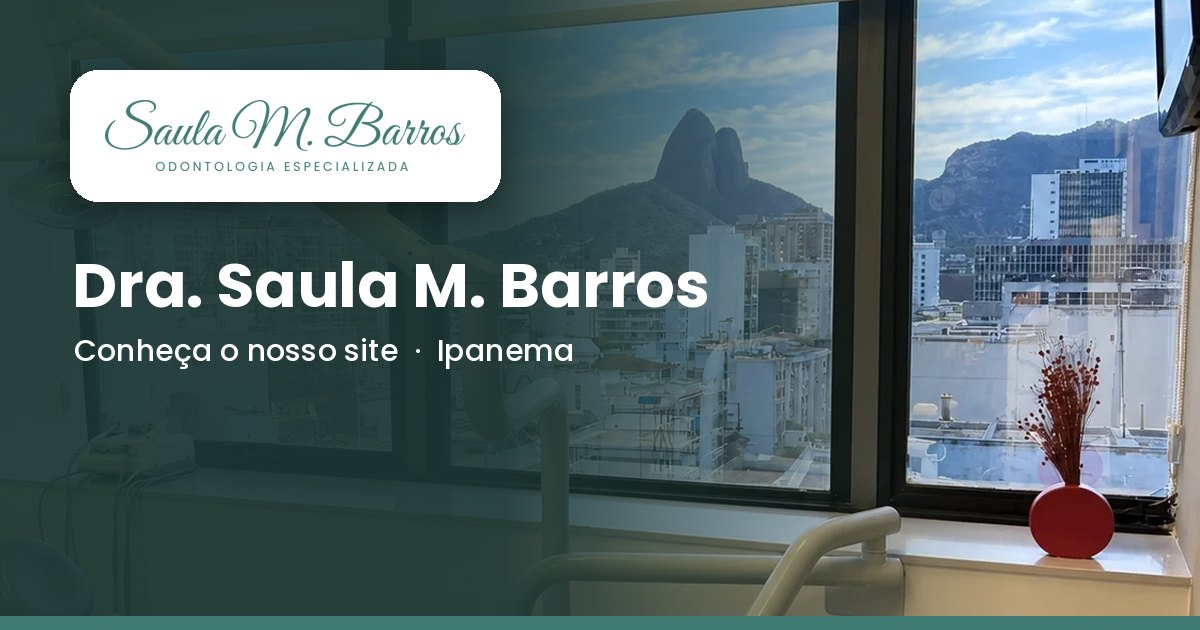
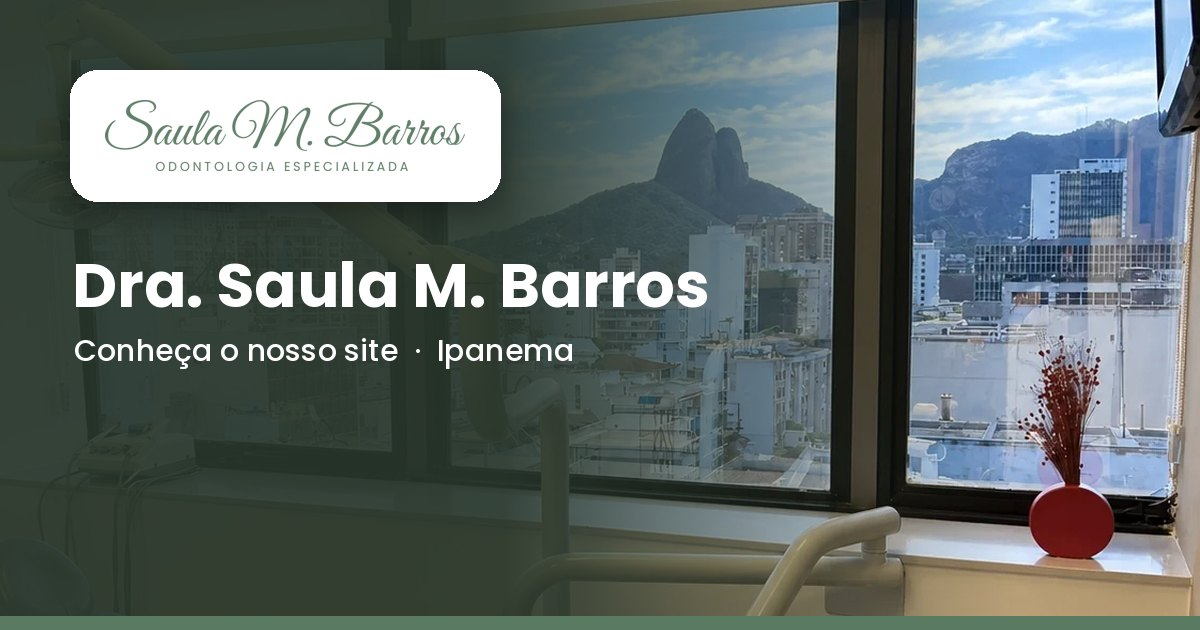
Prévia Dra. Saula v2: paleta sálvia e creme da identidade dela
Claude-Session: https://claude.ai/code/session_01Pmf734AabEcdqod3rHmquN

diff --git a/previas/dra-saula-barros-2/index.html b/previas/dra-saula-barros-2/index.html
@@ -24,8 +24,8 @@
 <link rel="stylesheet" href="https://fonts.googleapis.com/css2?family=Plus+Jakarta+Sans:wght@400;500;600;700;800&family=DM+Serif+Display&family=Caveat:wght@500;600&family=Allura&display=swap">
 <style>
 :root{
-  --azul:#0a5cb8; --azul-escuro:#084a96; --marinho:#0d2440; --texto:#4a5a6e;
-  --ceu:#eaf2fb; --ceu-2:#f5f9fe; --fio:#e1e9f3; --branco:#fff;
+  --azul:#5a7a61; --azul-escuro:#425d49; --marinho:#26352c; --texto:#5f6a62; --salvia:#8e9d8b; --mono:#739179;
+  --ceu:#e6ece3; --ceu-2:#f8efe8; --fio:#eae1d8; --branco:#fff;
   --sans:"Plus Jakarta Sans",system-ui,-apple-system,"Segoe UI",sans-serif;
   --serif:"DM Serif Display",Georgia,serif;
   --mao:"Caveat",cursive;
@@ -40,15 +40,15 @@ h1,h2,h3,p{margin:0}
 :focus-visible{outline:2px solid var(--azul);outline-offset:3px}
 .wrap{max-width:1240px;margin:0 auto;padding-inline:24px}
 .ic{width:22px;height:22px;stroke:currentColor;fill:none;stroke-width:1.7;stroke-linecap:round;stroke-linejoin:round;flex:none}
-.olho{font-size:.72rem;font-weight:700;letter-spacing:.2em;text-transform:uppercase;color:var(--azul);line-height:1.7}
+.olho{font-size:.72rem;font-weight:700;letter-spacing:.2em;text-transform:uppercase;color:var(--mono);line-height:1.7}
 .btn{display:inline-flex;align-items:center;gap:10px;justify-content:center;height:50px;padding:0 26px;border-radius:999px;font:600 .95rem/1 var(--sans);text-decoration:none;border:0;cursor:pointer;transition:background .2s,box-shadow .2s}
-.btn-azul{background:var(--azul);color:#fff;box-shadow:0 8px 20px -10px rgba(10,92,184,.8)}
+.btn-azul{background:var(--azul);color:#fff;box-shadow:0 8px 20px -10px rgba(66,93,73,.7)}
 .btn-azul:hover{background:var(--azul-escuro)}
-.btn-linha{background:#fff;color:var(--marinho);box-shadow:inset 0 0 0 1.5px #c9d6e6}
+.btn-linha{background:#fff;color:var(--marinho);box-shadow:inset 0 0 0 1.5px #d8cdc1}
 .btn-linha:hover{box-shadow:inset 0 0 0 1.5px var(--azul)}
 .btn .seta{width:16px;height:16px}
 .nota{font-family:var(--mao);color:var(--azul-escuro);line-height:1.02;font-weight:500}
-.nota svg{display:block;width:70px;height:10px;margin-top:6px;stroke:var(--azul);fill:none;stroke-width:2;stroke-linecap:round}
+.nota svg{display:block;width:70px;height:10px;margin-top:6px;stroke:var(--salvia);fill:none;stroke-width:2;stroke-linecap:round}
 
 /* barra do topo */
 .aviso{background:var(--marinho);color:#fff;font-size:.82rem}
@@ -62,20 +62,20 @@ h1,h2,h3,p{margin:0}
 .topo{position:sticky;top:0;z-index:30;background:rgba(255,255,255,.96);backdrop-filter:blur(10px);box-shadow:0 1px 0 var(--fio)}
 .topo .wrap{height:76px;display:flex;align-items:center;gap:28px}
 .topo .marca img{height:42px;width:auto}
-.menu{display:flex;gap:28px;margin-left:auto;font-size:.92rem;font-weight:500}
+.menu{display:flex;gap:22px;margin-left:auto;font-size:.9rem;font-weight:500;white-space:nowrap}
 .menu a{text-decoration:none;color:var(--marinho);padding:6px 0;position:relative}
 .menu a.ativo{color:var(--azul)}
 .menu a.ativo::after{content:"";position:absolute;left:0;right:0;bottom:-2px;height:2px;background:var(--azul);border-radius:2px}
 .menu a:hover{color:var(--azul)}
-.tel{display:flex;align-items:center;gap:8px;font-weight:600;font-size:.92rem;text-decoration:none;margin-left:12px}
+.tel{display:flex;align-items:center;gap:8px;font-weight:600;font-size:.9rem;text-decoration:none;margin-left:4px;white-space:nowrap}
 .tel .ic{width:18px;height:18px;color:var(--azul)}
-.topo .btn{height:44px;padding:0 20px;font-size:.88rem}
-@media(max-width:1120px){.tel{display:none}}
-@media(max-width:940px){.menu{display:none}.topo .btn{margin-left:auto}}
+.topo .btn{height:44px;padding:0 20px;font-size:.88rem;white-space:nowrap}
+@media(max-width:1300px){.tel{display:none}}
+@media(max-width:1060px){.menu{display:none}.topo .btn{margin-left:auto}}
 @media(max-width:420px){.topo .marca img{height:34px}.topo .btn{padding:0 14px}}
 
 /* hero */
-.hero{position:relative;background:linear-gradient(100deg,#f4f8fd 0%,#e8f1fb 45%,#dfe9f5 100%);overflow:hidden}
+.hero{position:relative;background:linear-gradient(100deg,#fcf8f4 0%,#f8efe8 50%,#ece9df 100%);overflow:hidden}
 .hero .wrap{display:grid;grid-template-columns:1fr 1fr;min-height:600px;align-items:center;position:relative}
 .hero .texto{padding:64px 0 56px;position:relative;z-index:2}
 .hero h1{font-size:clamp(2.4rem,4.4vw,3.7rem);font-weight:800;line-height:1.08;letter-spacing:-.02em;margin-top:14px}
@@ -86,11 +86,11 @@ h1,h2,h3,p{margin:0}
 .play .ic{width:14px;height:14px}
 .hero .selos{display:grid;grid-template-columns:repeat(4,1fr);margin-top:40px;max-width:560px}
 .hero .selos div{display:flex;flex-direction:column;align-items:center;text-align:center;gap:8px;font-size:.76rem;font-weight:600;line-height:1.3;padding:0 10px}
-.hero .selos div+div{border-left:1px solid #cfdcec}
+.hero .selos div+div{border-left:1px solid #ddd3c8}
 .hero .selos .ic{width:30px;height:30px;color:var(--azul);stroke-width:1.5}
 .hero .foto{position:absolute;right:0;top:0;bottom:0;width:56%;z-index:1}
 .hero .foto img{width:100%;height:100%;object-fit:cover;object-position:50% 22%;-webkit-mask-image:linear-gradient(90deg,transparent 0,#000 26%);mask-image:linear-gradient(90deg,transparent 0,#000 26%)}
-.hero .nota{position:absolute;right:28px;top:30px;z-index:3;font-size:1.6rem;text-align:left;transform:rotate(-4deg);color:var(--marinho);background:rgba(255,255,255,.78);backdrop-filter:blur(6px);padding:12px 18px 10px;border-radius:14px;box-shadow:0 8px 24px -14px rgba(13,36,64,.5)}
+.hero .nota{position:absolute;right:28px;top:30px;z-index:3;font-size:1.6rem;text-align:left;transform:rotate(-4deg);color:var(--marinho);background:rgba(255,255,255,.78);backdrop-filter:blur(6px);padding:12px 18px 10px;border-radius:14px;box-shadow:0 8px 24px -14px rgba(38,53,44,.5)}
 @media(max-width:900px){
   .hero{display:flex;flex-direction:column}
   .hero .wrap{grid-template-columns:1fr;min-height:0;width:100%}
@@ -109,10 +109,10 @@ h1,h2,h3,p{margin:0}
 .ver{display:inline-flex;align-items:center;gap:8px;font-weight:700;font-size:.9rem;text-decoration:none}
 .ver .ic{width:16px;height:16px}
 .cards{display:grid;grid-template-columns:repeat(6,1fr);gap:16px;margin-top:30px}
-.card{background:#fff;border-radius:10px;box-shadow:0 6px 24px -12px rgba(13,36,64,.25),0 0 0 1px var(--fio);overflow:hidden;display:flex;flex-direction:column}
+.card{background:#fff;border-radius:10px;box-shadow:0 6px 24px -12px rgba(38,53,44,.25),0 0 0 1px var(--fio);overflow:hidden;display:flex;flex-direction:column}
 .card img{width:100%;aspect-ratio:4/3;object-fit:cover}
 .card .corpo{position:relative;padding:34px 16px 18px;display:flex;flex-direction:column;flex:1}
-.card .bola{position:absolute;top:-24px;left:16px;width:48px;height:48px;border-radius:50%;background:#fff;display:grid;place-items:center;box-shadow:0 4px 14px -6px rgba(13,36,64,.35);color:var(--azul)}
+.card .bola{position:absolute;top:-24px;left:16px;width:48px;height:48px;border-radius:50%;background:#fff;display:grid;place-items:center;box-shadow:0 4px 14px -6px rgba(38,53,44,.35);color:var(--azul)}
 .card h3{font-size:.98rem;font-weight:700;line-height:1.3}
 .card p{font-size:.84rem;color:var(--texto);margin-top:6px;flex:1}
 .card a{margin-top:14px;font-size:.82rem;font-weight:700;color:var(--azul);text-decoration:none;display:inline-flex;align-items:center;gap:6px}
@@ -132,7 +132,7 @@ h1,h2,h3,p{margin:0}
 .sobre .btn{margin-top:26px}
 .difs{display:grid;gap:26px}
 .difs div{display:grid;grid-template-columns:48px 1fr;gap:14px;align-items:start}
-.difs .bola{width:48px;height:48px;border-radius:50%;background:#dfeaf8;color:var(--azul);display:grid;place-items:center}
+.difs .bola{width:48px;height:48px;border-radius:50%;background:#e6ece3;color:var(--azul);display:grid;place-items:center}
 .difs b{display:block;font-size:.95rem}
 .difs span{font-size:.85rem;color:var(--texto)}
 @media(max-width:1100px){.sobre .conteudo{grid-template-columns:1fr}}
@@ -143,16 +143,16 @@ h1,h2,h3,p{margin:0}
 .medo .grade{display:grid;grid-template-columns:.85fr 1.15fr;gap:48px;align-items:start}
 .medo .lado{position:sticky;top:110px}
 .medo .lado .sub{color:var(--texto);margin-top:14px;max-width:46ch}
-.medo .lado img{width:100%;aspect-ratio:5/4;object-fit:cover;object-position:50% 30%;border-radius:12px;margin-top:26px;box-shadow:0 14px 34px -18px rgba(13,36,64,.5)}
+.medo .lado img{width:100%;aspect-ratio:5/4;object-fit:cover;object-position:50% 30%;border-radius:12px;margin-top:26px;box-shadow:0 14px 34px -18px rgba(38,53,44,.5)}
 .passos{display:grid;grid-template-columns:1fr 1fr;gap:16px;counter-reset:p}
-.passo{background:#fff;border-radius:12px;padding:22px 24px 24px;box-shadow:0 6px 24px -12px rgba(13,36,64,.25),0 0 0 1px var(--fio);counter-increment:p;position:relative}
+.passo{background:#fbf7f3;border-radius:12px;padding:22px 24px 24px;box-shadow:0 6px 24px -12px rgba(38,53,44,.25),0 0 0 1px var(--fio);counter-increment:p;position:relative}
 .passo::after{content:counter(p);position:absolute;top:18px;right:20px;width:28px;height:28px;border-radius:50%;background:var(--ceu);color:var(--azul);font-size:.8rem;font-weight:700;display:grid;place-items:center}
-.passo h3{font:400 2.5rem/1 "Allura",var(--mao);color:var(--azul-escuro);padding-bottom:8px;border-bottom:2px solid #c9dbf0;display:inline-block;padding-right:24px}
+.passo h3{font:400 2.5rem/1 "Allura",var(--mao);color:var(--mono);padding-bottom:8px;border-bottom:2px solid #c7d3c4;display:inline-block;padding-right:24px}
 .passo p{font-size:.9rem;color:var(--texto);margin-top:12px}
 .consulta{grid-column:1/-1;background:var(--marinho);color:#fff;border-radius:12px;padding:26px 28px;display:grid;grid-template-columns:auto 1fr auto;gap:24px;align-items:center}
 .consulta .preco{font-size:2rem;font-weight:800;letter-spacing:-.02em;line-height:1}
-.consulta .preco small{display:block;font-size:.78rem;font-weight:500;color:#a9bdd6;letter-spacing:0;margin-bottom:6px}
-.consulta p{font-size:.9rem;color:#d3deeb}
+.consulta .preco small{display:block;font-size:.78rem;font-weight:500;color:#b7c7b9;letter-spacing:0;margin-bottom:6px}
+.consulta p{font-size:.9rem;color:#dbe4d9}
 .consulta b{color:#fff}
 .consulta .btn{background:#fff;color:var(--marinho)}
 @media(max-width:1000px){.medo .grade{grid-template-columns:1fr}.medo .lado{position:static}.consulta{grid-template-columns:1fr}}
@@ -162,7 +162,7 @@ h1,h2,h3,p{margin:0}
 .depo .wrap{display:grid;grid-template-columns:280px 1fr;gap:36px;align-items:center}
 .depo h2{font-size:clamp(2rem,3.2vw,2.6rem);font-weight:800;line-height:1.08;letter-spacing:-.02em;margin-top:8px}
 .depo .lista{display:grid;grid-template-columns:repeat(3,1fr);gap:18px}
-.depo article{background:#fff;border-radius:10px;padding:22px;box-shadow:0 6px 24px -12px rgba(13,36,64,.25),0 0 0 1px var(--fio);display:flex;flex-direction:column}
+.depo article{background:#fff;border-radius:10px;padding:22px;box-shadow:0 6px 24px -12px rgba(38,53,44,.25),0 0 0 1px var(--fio);display:flex;flex-direction:column}
 .depo article p{font-size:.9rem;flex:1}
 .depo .quem{display:flex;align-items:center;gap:12px;margin-top:18px}
 .depo .av{width:40px;height:40px;border-radius:50%;background:var(--ceu);color:var(--azul);display:grid;place-items:center;font-weight:700;font-size:.85rem}
@@ -171,7 +171,7 @@ h1,h2,h3,p{margin:0}
 @media(max-width:1000px){.depo .wrap{grid-template-columns:1fr}.depo .lista{grid-template-columns:1fr}}
 
 /* chamada final */
-.chamada{position:relative;background:linear-gradient(100deg,#e3edf9,#f2f7fd);overflow:hidden}
+.chamada{position:relative;background:linear-gradient(100deg,#ece9df,#f8efe8);overflow:hidden}
 .chamada .wrap{display:grid;grid-template-columns:.9fr 1.1fr;align-items:center;min-height:360px;position:relative}
 .chamada .foto{position:absolute;left:0;top:0;bottom:0;width:38%}
 .chamada .foto img{width:100%;height:100%;object-fit:cover;object-position:50% 34%;-webkit-mask-image:linear-gradient(90deg,#000 62%,transparent);mask-image:linear-gradient(90deg,#000 62%,transparent)}
@@ -181,18 +181,18 @@ h1,h2,h3,p{margin:0}
 .chamada .btn{margin-top:22px}
 .chamada .itens{display:flex;gap:22px}
 .chamada .itens div{display:flex;flex-direction:column;align-items:center;gap:8px;text-align:center;font-size:.78rem;font-weight:600;width:86px;line-height:1.3}
-.chamada .itens .bola{width:52px;height:52px;border-radius:50%;background:#fff;color:var(--azul);display:grid;place-items:center;box-shadow:0 4px 14px -8px rgba(13,36,64,.4)}
+.chamada .itens .bola{width:52px;height:52px;border-radius:50%;background:#fff;color:var(--azul);display:grid;place-items:center;box-shadow:0 4px 14px -8px rgba(38,53,44,.4)}
 .chamada .nota{position:absolute;right:28px;top:24px;font-size:1.6rem;transform:rotate(-6deg);z-index:2}
 @media(max-width:1100px){.chamada .meio{grid-template-columns:1fr}.chamada .nota{display:none}}
 @media(max-width:860px){.chamada .wrap{grid-template-columns:1fr}.chamada .foto{position:relative;width:auto;height:300px;margin:0 -24px}.chamada .foto img{-webkit-mask-image:linear-gradient(0deg,transparent,#000 35%);mask-image:linear-gradient(0deg,transparent,#000 35%)}.chamada .meio{grid-column:1;padding-top:0}.chamada .itens{flex-wrap:wrap}}
 
 /* rodapé */
-.rodape{background:#f7fafd;border-top:1px solid var(--fio);padding-top:56px;position:relative}
+.rodape{background:#fbf6f2;border-top:1px solid var(--fio);padding-top:56px;position:relative}
 .rodape .cols{display:grid;grid-template-columns:1.3fr .8fr 1fr 1.5fr .8fr;gap:32px}
 .rodape .marca img{height:44px;width:auto}
 .rodape .lema{color:var(--texto);font-size:.88rem;margin-top:14px;max-width:28ch}
 .redes{display:flex;gap:12px;margin-top:18px}
-.redes a{width:36px;height:36px;border-radius:50%;display:grid;place-items:center;color:var(--marinho);box-shadow:inset 0 0 0 1px #cfdbe9}
+.redes a{width:36px;height:36px;border-radius:50%;display:grid;place-items:center;color:var(--marinho);box-shadow:inset 0 0 0 1px #ddd3c8}
 .redes a:hover{color:var(--azul)}
 .redes .ic{width:17px;height:17px}
 .rodape h4{margin:0 0 14px;font-size:.92rem}
